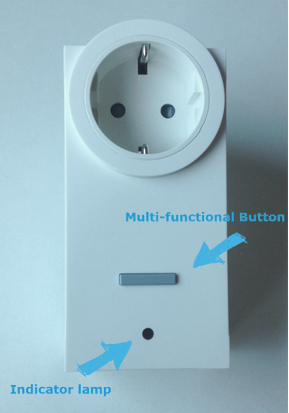
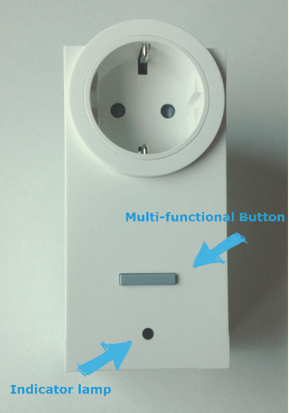
Lighten homematic-plug.jpg

diff --git a/README.md b/README.md
@@ -32,8 +32,8 @@ To disable the driver, use
 emonmuc disable homematic-cc1101
 ~~~
 
-This will set up the driver automatically with the help of the [setup script](setup.sh).  
-To manually install the driver, the separate [installation guide](doc/LinuxInstall.md) may be followed.
+This shell command will set up the driver, as instructed in the [setup script](setup.sh).  
+If there is the need to manually install the driver, the separate [installation guide](doc/LinuxInstall.md) may be followed.
 
 
 ### 1.1 Configuration
